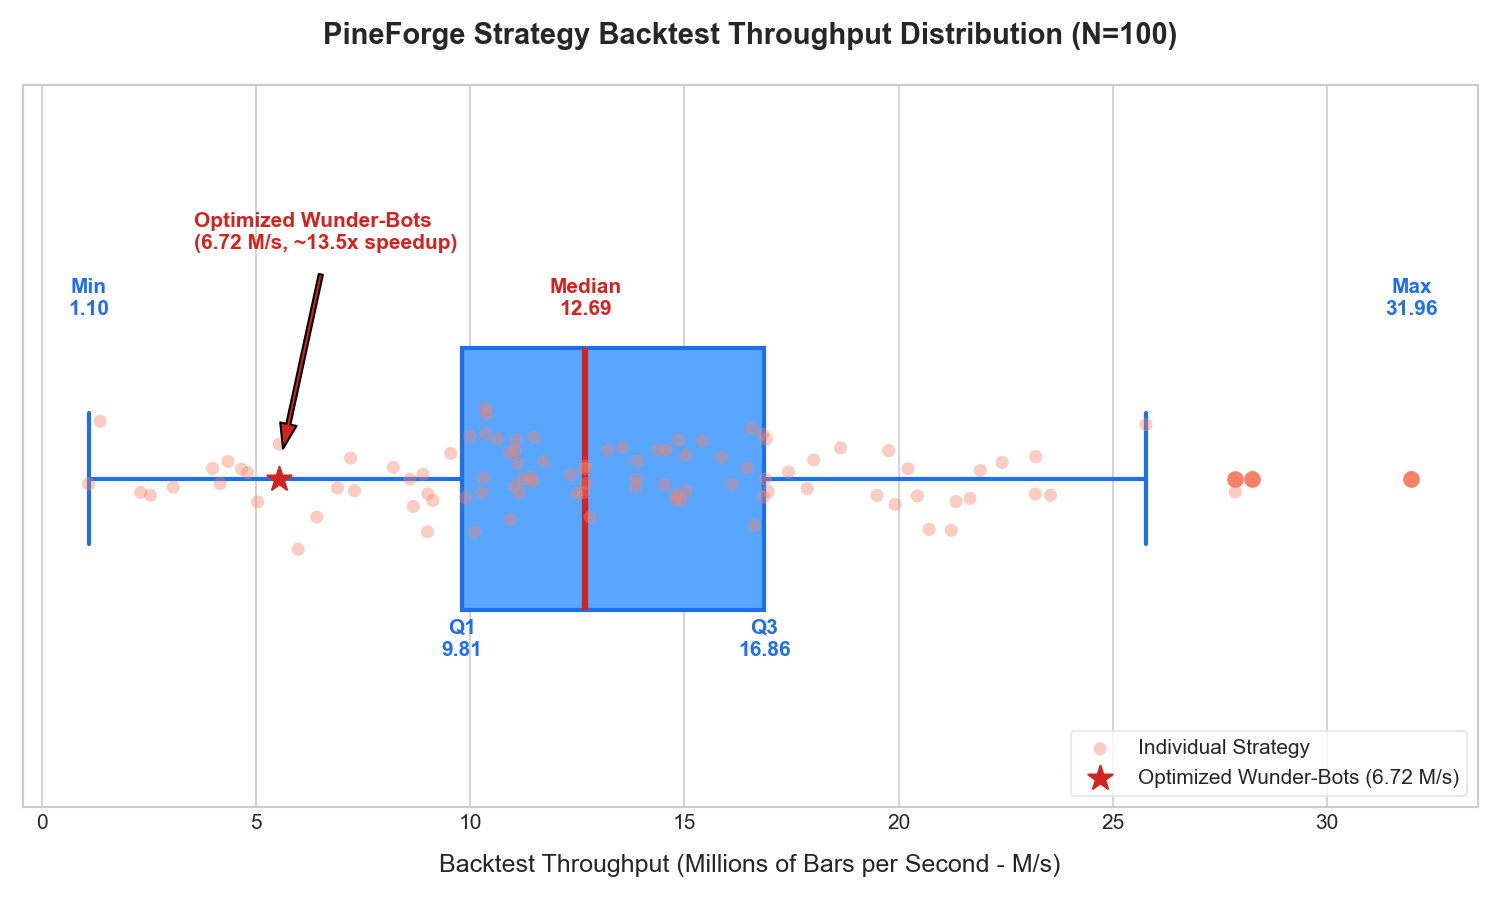
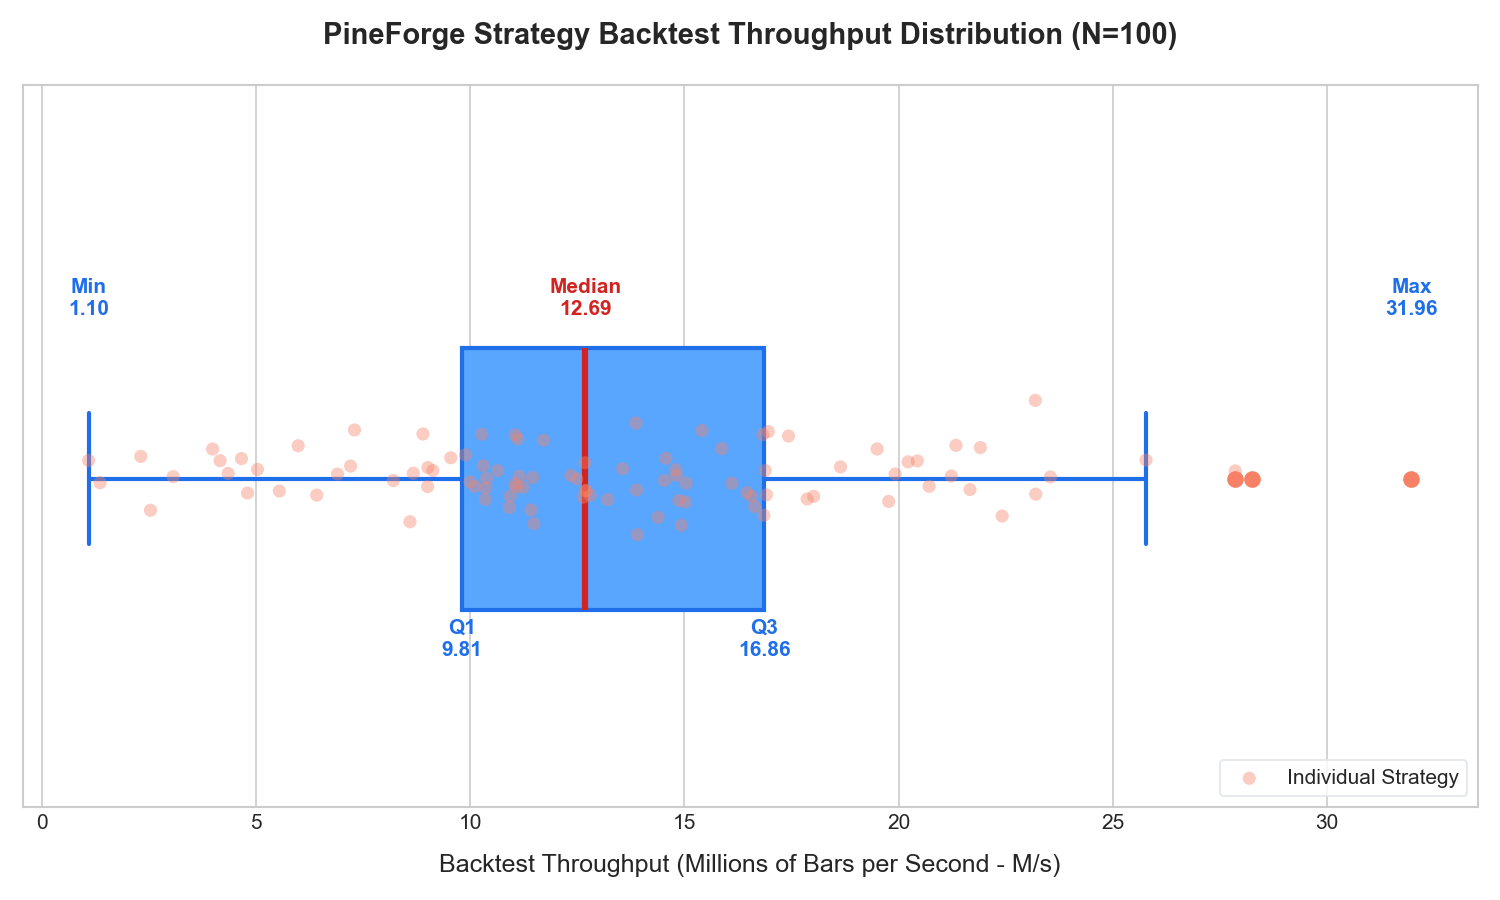
refactor(benchmarks): remove optimized wunder-bots highlight from throughput plot
Remove the Wunder-Bots annotation, red star marker, and arrow, presenting only the raw horizontal throughput distribution quartile plot to help identify natural code style bottlenecks.

diff --git a/performance_reproduction/plot_quartile.py b/performance_reproduction/plot_quartile.py
@@ -120,15 +120,6 @@ def main():
     plt.text(q3, 0.73, f"Q3\n{q3:.2f}", ha='center', fontweight='bold', color="#1f6feb")
     plt.text(max_v, 1.25, f"Max\n{max_v:.2f}", ha='center', fontweight='bold', color="#1f6feb")
 
-    # Highlighting wunder-bots strategy optimization marker
-    if "19-scalping-wunder-bots" in results:
-        wunder_val = results["19-scalping-wunder-bots"]
-        plt.scatter([wunder_val], [1.0], color="#d12420", s=150, marker='*', label="Optimized Wunder-Bots (6.72 M/s)", zorder=5)
-        plt.annotate("Optimized Wunder-Bots\n(6.72 M/s, ~13.5x speedup)",
-                     xy=(wunder_val, 1.02), xytext=(wunder_val - 2, 1.35),
-                     arrowprops=dict(facecolor='#d12420', shrink=0.08, width=2, headwidth=8),
-                     fontweight='bold', color="#d12420")
-
     plt.title("PineForge Strategy Backtest Throughput Distribution (N=100)", fontsize=14, fontweight='bold', pad=20)
     plt.xlabel("Backtest Throughput (Millions of Bars per Second - M/s)", fontsize=12, labelpad=10)
     plt.yticks([], []) # Hide standard y-axis numbers